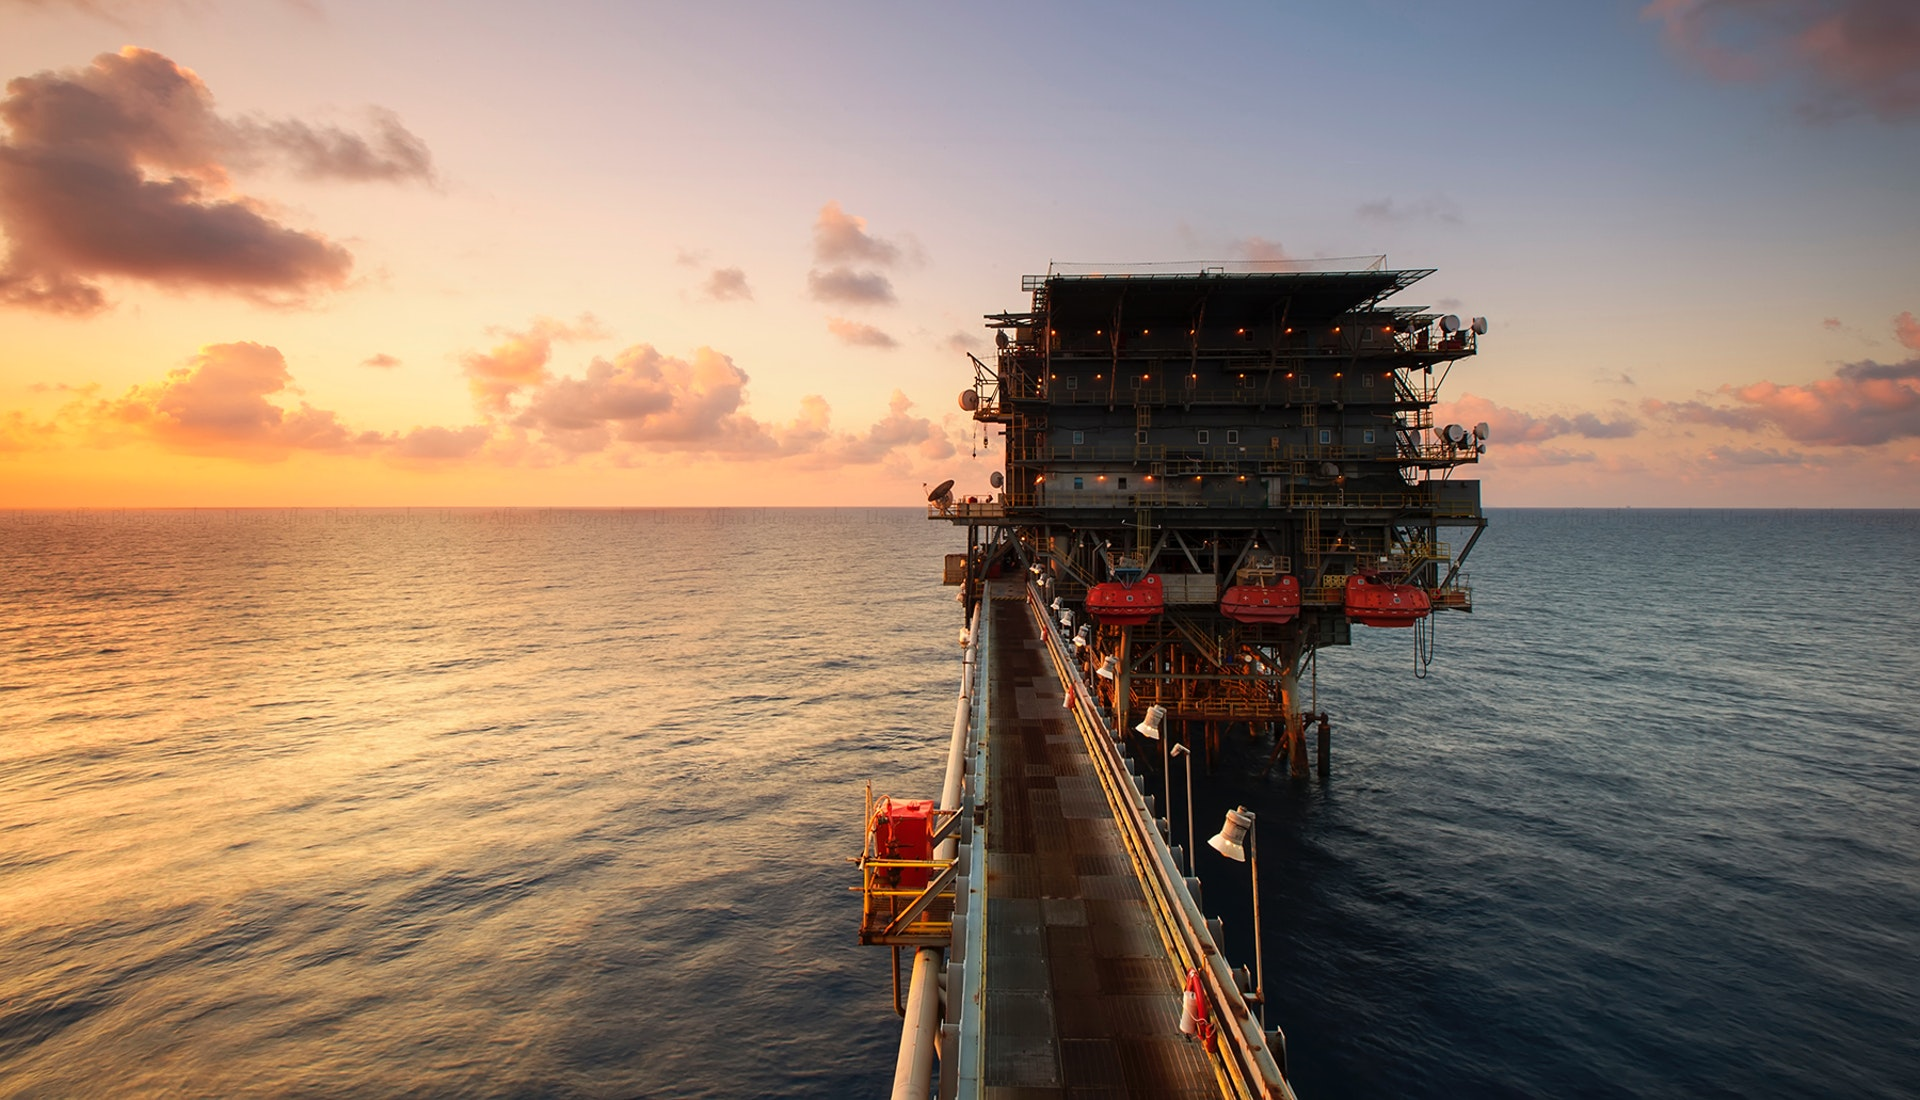
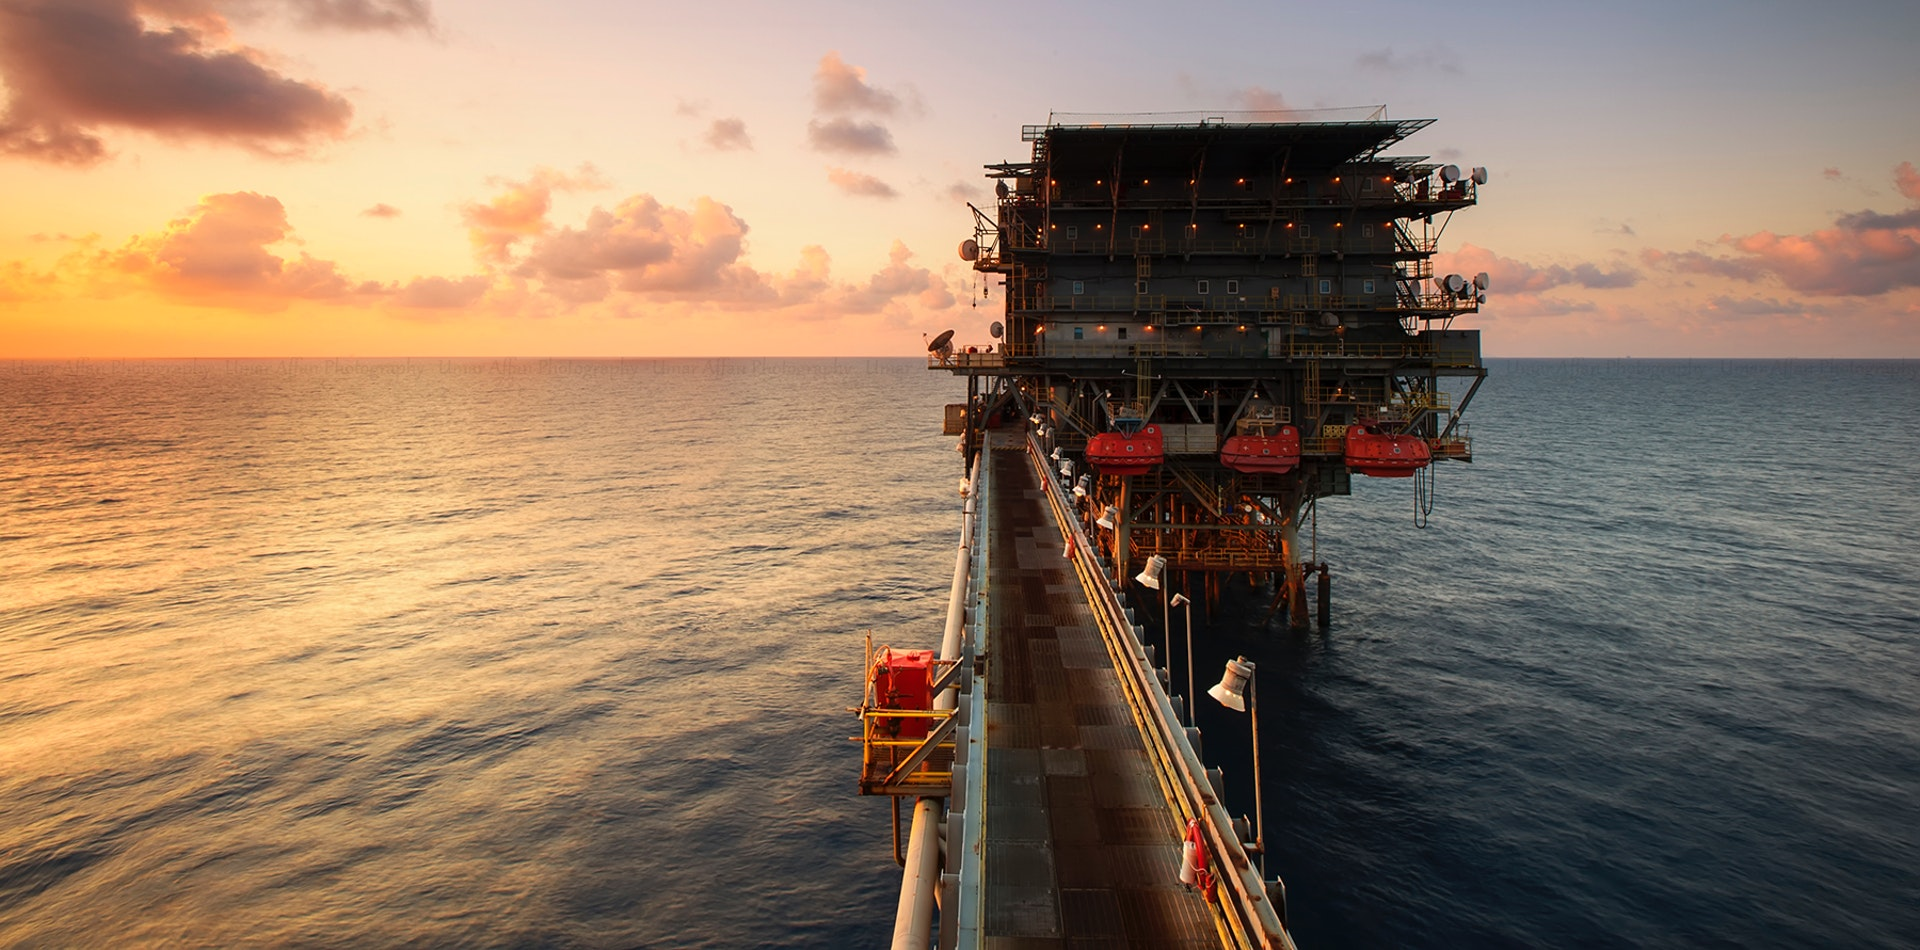
lead changes bg images

diff --git a/oil-gas-2/index.html b/oil-gas-2/index.html
@@ -39,7 +39,7 @@
     </div>
 
     <div class="carousel-inner">
-      <div class="carousel-item active" style="background-image: url(./images/img4.jpg);">
+      <div class="carousel-item active" style="background-image: url(./images/img4.jpg); background-size: cover;">
         <!-- <img src="./images/img1.jpg" class="d-block w-100" alt="..."> -->
         <lottie-player class="blob" src="https://assets8.lottiefiles.com/packages/lf20_rwboseoi.json" background="transparent"
           speed="0.5" style="width: 600px; height: 500px;" loop autoplay></lottie-player>
@@ -52,7 +52,7 @@
         <div class="carousel-caption d-none d-md-block">
         </div>
       </div>
-      <div class="carousel-item" style="background-image: url(./images/img5.jpg);">
+      <div class="carousel-item" style="background-image: url(./images/img5.jpg); background-size: cover;">
         <lottie-player class="blob" src="https://assets8.lottiefiles.com/packages/lf20_rwboseoi.json" background="transparent" speed="0.5" style="width: 600px; height: 500px;" loop autoplay></lottie-player>
         <div>
         <p class="head">Crude Oil Tech</p>
@@ -65,7 +65,7 @@
         <div class="carousel-caption d-none d-md-block">
         </div>
       </div>
-      <div class="carousel-item" style="background-image: url(./images/img6.jpg);">
+      <div class="carousel-item" style="background-image: url(./images/img2.jpg); background-size: cover;">
         <lottie-player class="blob" src="https://assets8.lottiefiles.com/packages/lf20_rwboseoi.json" background="transparent"
           speed="0.5" style="width: 600px; height: 500px;" loop autoplay></lottie-player>
         <div>
@@ -80,8 +80,8 @@
       </div>
     </div>
     <div class="top">
-      <nav class="px-5 navbar navbar-expand-lg navbar-light">
-        <div class="container-fluid">
+      <nav class="navbar navbar-expand-lg navbar-light">
+        <div class="container">
           <div class="d-flex">
             <img src="./images/logo.png" height="80" alt="">
             <a class="bname ps-3 py-3" href="#"><p>
@@ -95,13 +95,13 @@
             </button>
             <div class="collapse navbar-collapse" id="navbarSupportedContent">
               <ul class="navbar-nav me-auto mb-2 mb-lg-0">
-                <li class="nav-item">
+                <li class="nav-item me-4">
                   <a class="nav-link" href="#">About Us</a>
                 </li>
-                <li class="nav-item">
+                <li class="nav-item me-4">
                   <a class="nav-link" href="#">Features</a>
                 </li>
-                <li class="nav-item dropdown">
+                <li class="nav-item me-4 dropdown">
                   <a class="nav-link" href="#" id="navbarDropdown" role="button" data-bs-toggle="dropdown"
                   aria-expanded="false">
                   Sustainability
@@ -115,18 +115,18 @@
                   <li><a class="dropdown-item" href="#">Be A Part</a></li>
                 </ul>
               </li>
-              <li class="nav-item">
+              <li class="nav-item me-4">
                 <a class="nav-link" aria-current="page" href="#">Pricing</a>
               </li>
                 
-                <li class="nav-item">
+                <li class="nav-item me-4">
                   <a class="nav-link" href="#">Innovation</a>
                 </li>
-                <li class="nav-item">
+                <li class="nav-item me-4">
                   <a class="nav-link" href="#">FAQ</a>
                 </li>
               </ul>
-              <form class="d-flex">
+              <form class="d-flex me-4">
                 <button class="btn btn-danger" type="button" data-bs-toggle="collapse" data-bs-target="#collapseExample" aria-expanded="false" aria-controls="collapseExample">
                   <i class="fas fa-search"></i>
                 </button>
@@ -138,7 +138,7 @@
               </form>
             </div>
           </div>
-          <div class="pb-3">
+          <div class=" ps-5 pb-3">
 
             <button class="btn btn-warning" type="submit">
               Get A Quote
@@ -159,19 +159,10 @@
         <img src="./images/logo.png" height="50px" alt="">
       </a>
   
-      <ul class="nav col-md-4 justify-content-end">
-        <li class="nav-item"><a href="#" class="nav-link px-2 text-muted">Home</a></li>
-        <li class="nav-item"><a href="#" class="nav-link px-2 text-muted">Features</a></li>
-        <li class="nav-item"><a href="#" class="nav-link px-2 text-muted">Pricing</a></li>
-        <li class="nav-item"><a href="#" class="nav-link px-2 text-muted">FAQs</a></li>
-        <li class="nav-item"><a href="#" class="nav-link px-2 text-muted">About</a></li>
-      </ul>
-      <ul class="socials">
-        <li class="nav-item"><a href="#" class="nav-link px-2 text-muted"><i class="fa-brands fa-instagram"></i></a></li>
-        <li class="nav-item"><a href="#" class="nav-link px-2 text-muted"><i class="fa-brands fa-twitter"></i></a></li>
-        <li class="nav-item"><a href="#" class="nav-link px-2 text-muted"><i class="fa-brands fa-linkedin"></i></a></li>
-        <!-- <li class="nav-item"><a href="#" class="nav-link px-2 text-muted"></a></li>
-        <li class="nav-item"><a href="#" class="nav-link px-2 text-muted"></a></li> -->
+      <ul class="nav socials col-md-4 justify-content-end">
+          <li class="nav-item"><a href="#" class="nav-link px-2 text-muted"><i class="fa-brands fa-instagram"></i></a></li>
+          <li class="nav-item"><a href="#" class="nav-link px-2 text-muted"><i class="fa-brands fa-twitter"></i></a></li>
+          <li class="nav-item"><a href="#" class="nav-link px-2 text-muted"><i class="fa-brands fa-linkedin"></i></a></li>
       </ul>
     </footer>
   </div>

diff --git a/oil-gas-2/css/style.css b/oil-gas-2/css/style.css
@@ -73,11 +73,7 @@
 }
 
 .socials {
-  list-style: none;
-  display: flex;
-  justify-content: right;
-  width: 83.5%;
-  font-size: large;
+  font-size: 20px;
 }
 .socials:hover {
   color: #f84b07;
